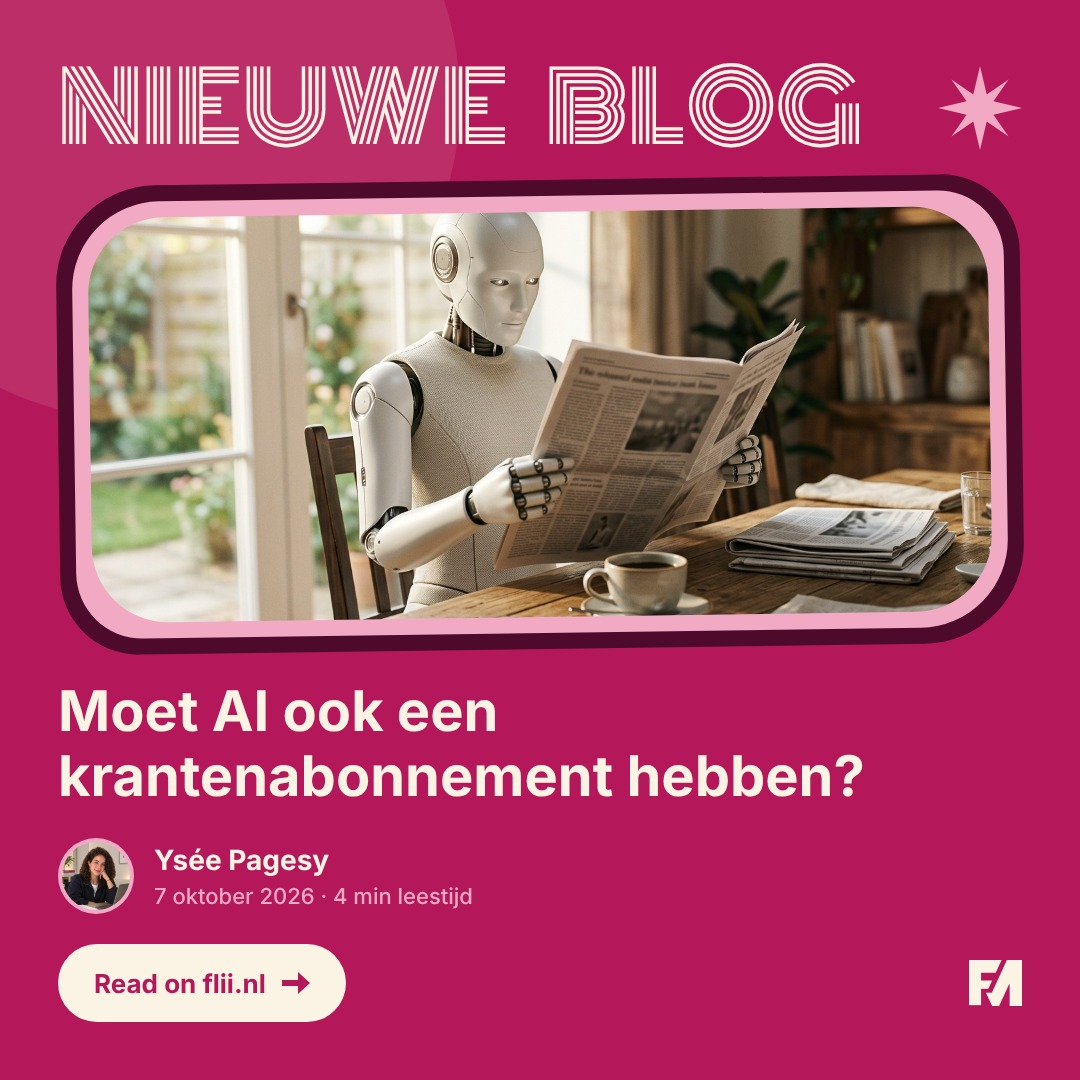
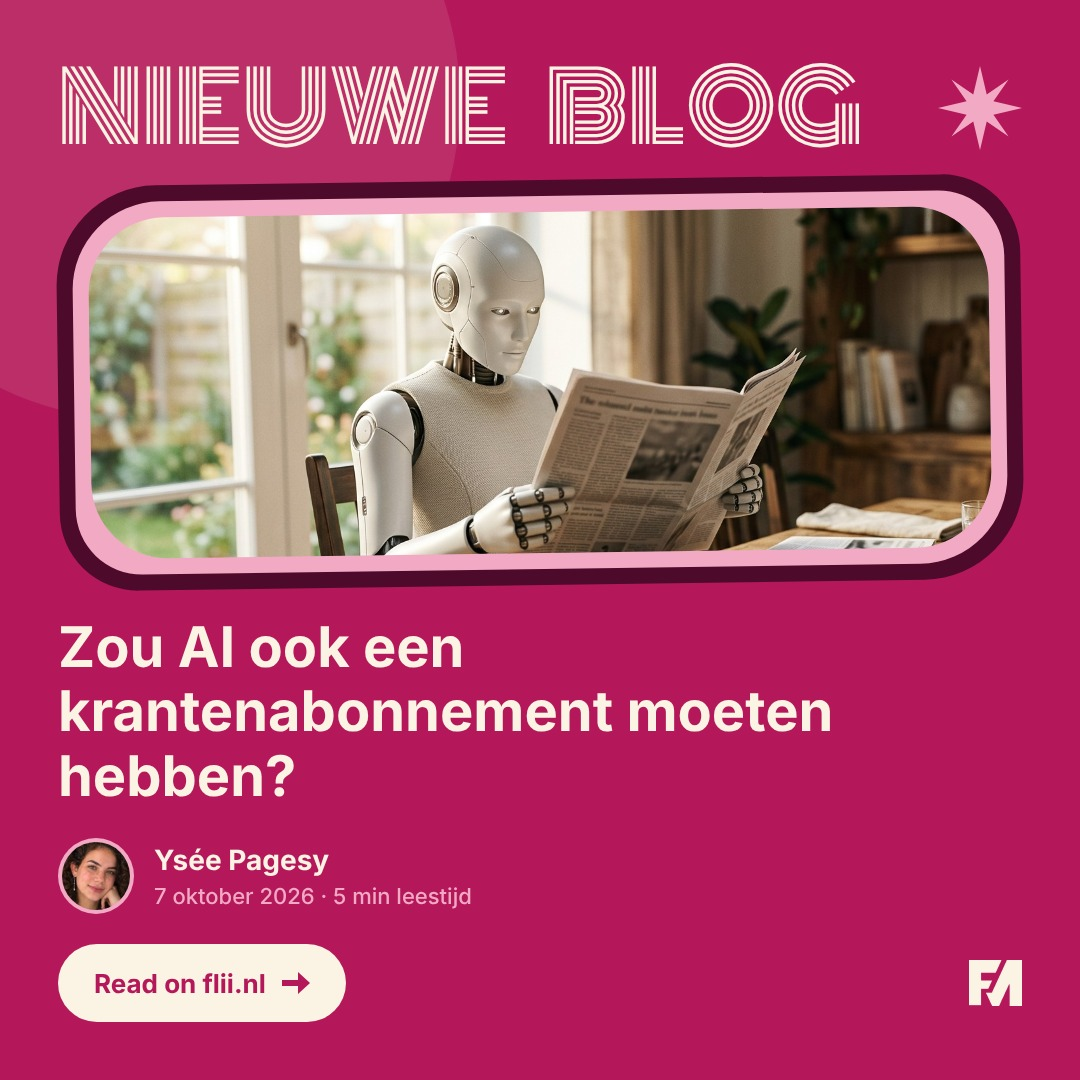
7 okt: artikel van Ysée Pagesy, nieuwe titel en leestijd
Claude-Session: https://claude.ai/code/session_01BdrNn45ppSGb9d5L34N1QB

Changed region(s): [[0.0306, 0.1833, 0.9472, 0.8556], [0.3056, 0.825, 0.4278, 0.8556]]

diff --git a/insight/ai-nieuwscrawlers-en-je-merk.html b/insight/ai-nieuwscrawlers-en-je-merk.html
@@ -4,10 +4,10 @@
 <meta charset="UTF-8">
 <meta http-equiv="Cache-Control" content="max-age=300, must-revalidate">
 <meta name="viewport" content="width=device-width,initial-scale=1">
-<title>Moet AI ook een krantenabonnement hebben? | Flii Media</title>
+<title>Zou AI ook een krantenabonnement moeten hebben? | Flii Media</title>
 <meta property="og:type" content="article">
-<meta property="og:title" content="Moet AI ook een krantenabonnement hebben?">
-<meta property="og:description" content="ChatGPT vertelt dagelijks wat er over jouw merk in het nieuws staat. Maar welke bronnen leest het eigenlijk, en betaalt het daarvoor?">
+<meta property="og:title" content="Zou AI ook een krantenabonnement moeten hebben?">
+<meta property="og:description" content="AI haalt nieuws op via crawlers, vaak zonder dat de lezer de krant nog bezoekt. Zou AI dan een abonnement moeten hebben op de kranten waar het zijn informatie vandaan haalt?">
 <meta property="og:url" content="https://flii.nl/insight/ai-nieuwscrawlers-en-je-merk">
 <meta property="og:site_name" content="Flii Media">
 <meta name="twitter:card" content="summary_large_image">
@@ -17,7 +17,7 @@
 <meta property="og:locale" content="nl_NL">
 <meta name="twitter:image" content="https://flii.nl/assets/og/insight-ai-nieuwscrawlers-en-je-merk.jpg">
 
-<meta name="description" content="ChatGPT vertelt dagelijks wat er over jouw merk in het nieuws staat. Maar welke bronnen leest het eigenlijk, en betaalt het daarvoor?">
+<meta name="description" content="AI haalt nieuws op via crawlers, vaak zonder dat de lezer de krant nog bezoekt. Zou AI dan een abonnement moeten hebben op de kranten waar het zijn informatie vandaan haalt?">
 <style>
 @font-face{font-family:'Bricolage Grotesque';src:url('/assets/fonts/BricolageGrotesque.woff2') format('woff2-variations');
   font-weight:200 800;font-display:swap;}
@@ -209,7 +209,7 @@ body > picture{box-sizing:border-box;}
     {
       "@type": "ListItem",
       "position": 3,
-      "name": "Moet AI ook een krantenabonnement hebben?",
+      "name": "Zou AI ook een krantenabonnement moeten hebben?",
       "item": "https://flii.nl/insight/ai-nieuwscrawlers-en-je-merk"
     }
   ]
@@ -233,38 +233,53 @@ body > picture{box-sizing:border-box;}
   <div class="article-meta">
     <span class="article-tag">Blog</span>
     <span class="article-date-lbl">7 oktober 2026</span>
-    <span class="article-author">Sten Bossong</span>
+    <span class="article-author">Ysée Pagesy</span>
   </div>
-  <h1>Moet AI ook een krantenabonnement hebben?</h1>
-  <p class="lead">Hoe AI-nieuwscrawlers bepalen wat er over je merk verschijnt</p>
+  <h1>Zou AI ook een krantenabonnement moeten hebben?</h1>
   <span class="article-chip article-chip--prompted">prompted</span>
 </div>
-<img decoding="async" fetchpriority="high" src="/assets/insight/ai-nieuwscrawlers-en-je-merk.webp" alt="Moet AI ook een krantenabonnement hebben?" class="hero-img" loading="eager">
+<img decoding="async" fetchpriority="high" src="/assets/insight/ai-nieuwscrawlers-en-je-merk.webp" alt="Zou AI ook een krantenabonnement moeten hebben?" class="hero-img" loading="eager">
 <div class="section-body">
-<p>Vraag ChatGPT, Perplexity of Google wat er speelt rond jouw merk, en je krijgt een keurige samenvatting. Maar waar komt die vandaan? Achter elk AI-antwoord zit een crawler die het web afstruint. En een groeiend deel van het nieuws zit achter een deur die voor die crawlers dicht blijft.</p>
-<p>Dat klinkt als een probleem van uitgevers. Maar het raakt elk merk dat in het nieuws komt, of daar juist in wil komen.</p>
-<p>Let's dive in.</p>
-
-<h2>Wat doet een AI-nieuwscrawler?</h2>
-<p>Crawlers zijn bots die websites lezen. Zoekmachines doen dat al decennia om pagina's te indexeren. AI-bedrijven gebruiken ze voor twee dingen: om hun modellen te trainen, en om actuele antwoorden te geven. Dat laatste gebeurt live. Vraag je iets over gisteren, dan haalt de AI het op bij bronnen die hij mag lezen.</p>
-<p>Uitgevers maken daar steeds bewuster onderscheid in. Uit een analyse van FT Strategies onder 70 grote nieuwsuitgevers (juli 2026) blijkt dat 60 van hen minstens één AI-crawler weren. Het patroon: zoekcrawlers zijn welkom, trainingscrawlers niet, en crawlers die AI-antwoorden voeden krijgen per geval toegang.</p>
-
-<h2>Toegang is een verdienmodel geworden</h2>
-<p>Dat selectieve open- en dichtdoen is geen toeval. Het is onderhandelingsruimte. OpenAI sloot licentiedeals met onder meer Axel Springer, de Financial Times en News Corp. The New York Times stapte juist naar de rechter. Halverwege 2026 telde de teller al zo'n 48 AI-licentiedeals waarin nieuws een rol speelt.</p>
-<p>Ook de infrastructuur van het web schuift mee. Cloudflare, dat een groot deel van alle websites bedient, kondigde aan trainings- en agent-crawlers standaard te blokkeren op pagina's met advertenties. Zoekcrawlers blijven welkom. Uitgevers kunnen bovendien een prijs per crawl rekenen.</p>
-<p>Kortom: AI heeft inmiddels letterlijk een krantenabonnement nodig. En niet elke AI heeft hetzelfde abonnement.</p>
-
-<h2>Wat betekent dit voor jouw merk?</h2>
-<p>Een AI-assistent kan alleen navertellen wat hij mag lezen. Staat jouw beste interview in een medium dat crawlers weert, dan bestaat het voor dat model niet. Een kritisch stuk in een open bron telt daarentegen volledig mee.</p>
+<p><strong>Zou AI ook een krantenabonnement moeten hebben?</strong></p>
+<p>Als we informatie willen krijgen, maken we gebruik van verschillende bronnen, zoals sociale media, kranten en televisiezenders. Veel van deze bronnen zijn afhankelijk van abonnementen, advertenties of andere vormen van inkomsten om het hoofd boven water te houden. Maar tegenwoordig zijn dit niet meer de enige manieren om informatie te verkrijgen. AI kan nu informatie van het internet verzamelen en verwerken met behulp van crawlers. Gebruikers zijn daardoor misschien minder snel bereid om voor een abonnement te betalen. Zou AI dan een abonnement moeten hebben op de kranten waar het zijn informatie vandaan haalt?</p>
+<p><strong>Wat is een AI-crawler?</strong></p>
+<p>Voordat we de link tussen AI en mediaplatforms proberen te begrijpen, moeten we eerst kijken naar wat een “AI-crawler” precies is. Traditionele crawlerbots verzamelen informatie van het internet en slaan deze op in databases en indexen, zodat zoekmachines websites, artikelen of afbeeldingen makkelijker kunnen vinden. AI-crawlers verzamelen ook online content, maar kunnen deze voor verschillende doeleinden gebruiken: sommige verzamelen informatie om Large Language Models (LLM’s) te trainen, terwijl andere informatie ophalen en bronnen citeren bij het beantwoorden van vragen van gebruikers. Simpel gezegd helpen traditionele crawlers mensen vooral om content te vinden, terwijl AI-crawlers AI-systemen kunnen helpen om content te begrijpen, verwerken of genereren.</p>
+<p>Het onderscheid is niet altijd zo duidelijk, omdat sommige crawlers meerdere doelen tegelijk kunnen dienen. Toch verandert hun opkomst de manier waarop mensen toegang krijgen tot informatie. In plaats van rechtstreeks naar een website te gaan om een artikel te lezen, kunnen gebruikers AI simpelweg vragen om het nieuws samen te vatten. Misschien bezoeken ze daarna het originele artikel, maar misschien ook niet. Uiteindelijk kunnen ze veel van de waarde van een artikel ontvangen zonder het daadwerkelijk te lezen.</p>
+<p><strong>Hoe gingen uitgevers om met AI-crawlers?</strong></p>
+<p>Uitgevers kunnen een specifiek bestand gebruiken dat “robots.txt” heet. Hiermee kunnen ze aangeven welke delen van een website crawlers wel of niet mogen bezoeken. Hoewel crawlers deze instructies meestal respecteren, is robots.txt geen absolute bescherming: het is eerder een verzoek dan een technische barrière, en sommige crawlers kunnen ervoor kiezen om het te negeren.</p>
+<p>Maar het blokkeren van AI-crawlers brengt een lastige afweging met zich mee. Als een AI-tool een artikel van een uitgever niet kan ophalen, kan het mogelijk ook de originele bron niet tonen of citeren in zijn antwoord. De uitgever beschermt daarmee zijn content, maar kan tegelijkertijd zichtbaarheid en potentiële lezers verliezen.</p>
+<p>En dit is niet helemaal nieuw voor kranten. Ze hebben hun verdienmodel al meerdere keren moeten aanpassen: van het verkopen van een papieren krant, naar het aanbieden van nieuws online, en vervolgens het toevoegen van extra onderdelen zoals denkspellen, cartoons, recepten en video’s. Tegenwoordig combineren veel uitgevers deze verschillende producten in één abonnement, om lezers meer waarde te bieden dan alleen het nieuws.</p>
+<p><strong>Welke nieuwe oplossingen proberen uitgevers in te voeren?</strong></p>
+<p>Om concurrerend te blijven met AI-platforms zijn uitgevers begonnen met het ontwikkelen van andere manieren om inkomsten te genereren.</p>
 <ul>
-<li><strong>Je PR-mix bepaalt je AI-beeld.</strong> Waar je verschijnt, is minstens zo belangrijk als hoe vaak. Publicaties in bronnen die AI-crawlers toelaten komen terug in antwoorden, publicaties achter een gesloten deur niet.</li>
-<li><strong>Je eigen site is je betrouwbaarste bron.</strong> Op je eigen website vertel je het verhaal zelf. Check je robots.txt: blokkeer je per ongeluk de bots die AI-antwoorden voeden?</li>
-<li><strong>Meten gaat anders.</strong> Vraag regelmatig aan ChatGPT, Perplexity en Gemini wat ze over je merk weten, en noteer welke bronnen ze noemen. Dat is je nieuwe share of voice.</li>
+<li><p><strong>Pay-per-crawl</strong></p></li>
 </ul>
+<p>Pay-per-crawl is een nieuw systeem dat nog volop in ontwikkeling is. Het stelt website-eigenaren in staat om een prijs vast te stellen voor toegang door bepaalde AI-crawlers. Journalistieke content wordt daarmee meer behandeld als een gelicentieerde bron.</p>
+<ul>
+<li><p><strong>Pay-per-use</strong></p></li>
+</ul>
+<p>Pay-per-use is een model waarbij uitgevers worden betaald wanneer hun content daadwerkelijk bijdraagt aan een AI-product. Het verschil is eenvoudig: bij pay-per-crawl betaal je voor toegang, terwijl je bij pay-per-use betaalt voor daadwerkelijk gebruik. Wanneer een gebruiker een AI-model bijvoorbeeld om nieuws vraagt, krijgt de uitgever betaald voor de content die in het antwoord wordt gebruikt.</p>
+<ul>
+<li><p><strong>Licentieovereenkomsten</strong></p></li>
+</ul>
+<p>In plaats van juridische stappen te ondernemen, kiezen sommige uitgevers ervoor om overeenkomsten te sluiten met AI-bedrijven over het gebruik van hun content. Bedrijven zoals Associated Press, Axel Springer, Prisa Media en Le Monde hebben al dergelijke overeenkomsten gesloten met AI-bedrijven.</p>
+<p>Deze oplossing is echter veel makkelijker voor grote mediabedrijven dan voor kleine kranten. Kleinere uitgevers kunnen er daarom voor kiezen om zich gezamenlijk te organiseren om licenties te onderhandelen.</p>
+<ul>
+<li><p><strong>Collectieve licenties / collectief beheer</strong></p></li>
+</ul>
+<p>Deze oplossing kan vooral interessant zijn voor kleinere uitgevers. In plaats van individueel te moeten onderhandelen met OpenAI, Google of Anthropic, kunnen ze een collectieve organisatie vormen die licenties beheert en inkomsten onder de deelnemers verdeelt. Deze aanpak is nog volop in ontwikkeling, maar is gebaseerd op het principe van collectief beheer dat al in de muziekindustrie wordt gebruikt.</p>
+<ul>
+<li><p><strong>Bundelabonnementen</strong></p></li>
+</ul>
+<p>Een andere manier waarop uitgevers reageren, is door hun abonnementen aantrekkelijker te maken. Nu mensen steeds vaker informatie via sociale media en AI krijgen, bezoeken minder mensen rechtstreeks nieuwswebsites. Volgens het Reuters Institute maakt dit het moeilijker voor uitgevers om nieuwe bezoekers om te zetten in abonnees.</p>
+<p>Als AI je gratis kan vertellen wat er vandaag is gebeurd, wordt algemeen nieuws minder waardevol. Uitgevers moeten daarom dingen aanbieden die gebruikers niet makkelijk ergens anders kunnen vinden, zoals exclusieve onderzoeken, lokale journalistiek, podcasts, games of evenementen.</p>
+<p>The New York Times is een voorbeeld van deze ontwikkeling. In 2025 betaalde slechts 12% van de abonnees uitsluitend voor nieuws, tegenover 17% het jaar ervoor. De meeste abonnees kiezen nu voor een bundel met onder andere games en koken.</p>
+<p><strong>Dus, zou AI een abonnement op kranten moeten hebben?</strong></p>
+<p>Misschien niet in de traditionele vorm. Maar als AI-bedrijven journalistiek gebruiken om hun producten aan te bieden, zouden ze ervoor moeten betalen.</p>
+<p>AI wordt een nieuwe manier waarop mensen toegang krijgen tot nieuws, vaak zonder de oorspronkelijke krant of website te bezoeken. Als een AI een artikel kan gebruiken om de vraag van een gebruiker te beantwoorden, terwijl die gebruiker nooit op de website van de uitgever komt of een abonnement afsluit, loopt de uitgever het risico inkomsten te verliezen die nodig zijn om die journalistiek te produceren.</p>
+<p>Dit betekent niet per se dat AI-bedrijven een traditioneel abonnement bij iedere krant moeten afsluiten. Pay-per-crawl, pay-per-use, licentieovereenkomsten en collectieve licenties kunnen allemaal verschillende manieren bieden om uitgevers te compenseren. Het belangrijkste is dat de waarde niet slechts één kant op gaat: als AI-bedrijven profiteren van journalistiek, zouden uitgevers daar ook van moeten profiteren.</p>
+<p>AI verandert de manier waarop we nieuws consumeren, dus uitgevers zullen zich moeten blijven aanpassen. Maar aanpassen werkt alleen als er een duurzame manier blijft bestaan om de journalistiek achter de informatie die AI aanbiedt te financieren.</p>
 
-<h2>Conclusie</h2>
-<p>Of AI een krantenabonnement moet hebben, wordt nu in contracten en rechtszalen beslist. Voor merken is de praktische vraag een andere: in welke kranten leest de AI mee? Wie dat weet, kan sturen op wat er over zijn merk verschijnt.</p>
-<p>Benieuwd wat AI vandaag over jouw merk vertelt? Plan een gesprek met ons team, dan zoeken we het samen uit.</p>
 </div>
 
 <footer class="footer">

diff --git a/insight.html b/insight.html
@@ -435,7 +435,7 @@ nav.nav{background:#fff !important;color:#0F0E0C !important;max-width:none !impo
     <a class="ov-art" href="insight/google-io-2026-wat-marketeers-moeten-weten"><img src="/assets/insight/google-io-2026-wat-marketeers-moeten-weten.webp" alt="" loading="lazy"><span class="ov-art-b"><span class="ov-art-n">Google I/O 2026: wat marketeers moeten weten</span><span class="ov-art-d">Elke maand gebruiken 2,5 miljard mensen AI Overviews in Google, en AI Mode haalde binnen een jaar 1 miljard gebruikers. Wat…</span></span></a>
     <a class="ov-art" href="insight/terug-naar-de-basis"><img src="/assets/insight/terug-naar-de-basis.webp" alt="" loading="lazy"><span class="ov-art-b"><span class="ov-art-n">Terug naar de basis</span><span class="ov-art-d">Een cadeautje van de meiden. Om slechte klanten af te schrikken.</span></span></a>
     <a class="ov-art" href="insight/social-media-onderzoek-2026-newcom"><img src="/assets/insight/social-media-onderzoek-2026-newcom.webp" alt="" loading="lazy"><span class="ov-art-b"><span class="ov-art-n">Meer gebruikers, meer twijfel: social media in 2026</span><span class="ov-art-d">14,6 miljoen Nederlanders gebruiken social media, gemiddeld twee uur per dag. Tegelijk wil 5,5 miljoen er minder tijd aan…</span></span></a>
-    <a class="ov-art" href="insight/ai-nieuwscrawlers-en-je-merk"><img src="/assets/insight/ai-nieuwscrawlers-en-je-merk.webp" alt="" loading="lazy"><span class="ov-art-b"><span class="ov-art-n">Moet AI ook een krantenabonnement hebben?</span><span class="ov-art-d">ChatGPT vertelt dagelijks wat er over jouw merk in het nieuws staat. Maar welke bronnen leest het eigenlijk, en betaalt het…</span></span></a>
+    <a class="ov-art" href="insight/ai-nieuwscrawlers-en-je-merk"><img src="/assets/insight/ai-nieuwscrawlers-en-je-merk.webp" alt="" loading="lazy"><span class="ov-art-b"><span class="ov-art-n">Zou AI ook een krantenabonnement moeten hebben?</span><span class="ov-art-d">AI haalt nieuws op via crawlers, vaak zonder dat de lezer de krant nog bezoekt. Zou AI dan een abonnement moeten hebben op…</span></span></a>
     <a class="ov-art" href="insight/ai-video-in-drie-fasen-personage-beeld-beweging"><img src="/assets/insight/ai-video-in-drie-fasen-personage-beeld-beweging.webp" alt="" loading="lazy"><span class="ov-art-b"><span class="ov-art-n">Van gezicht naar film: AI-video in drie fasen</span><span class="ov-art-d">De meeste mensen gebruiken AI-video in de verkeerde volgorde. Bouw eerst het personage, dan de beelden, dan de beweging — de…</span></span></a>
     <a class="ov-art" href="insight/ai-architectuur-voor-ieder-bedrijf-nodig"><img src="/assets/insight/ai-architectuur-voor-ieder-bedrijf-nodig.webp" alt="" loading="lazy"><span class="ov-art-b"><span class="ov-art-n">AI architectuur: voor ieder bedrijf een must?</span><span class="ov-art-d">Waarom losse AI-tools uitgroeien tot chaos, en wat een AI-architectuur oplost. Over data, processen en het verschil tussen…</span></span></a>
     <a class="ov-art" href="insight/branding-versus-performance-marketing"><img src="/assets/insight/branding-versus-performance-marketing.webp" alt="" loading="lazy"><span class="ov-art-b"><span class="ov-art-n">Branding vs. Performance: wat werkt?</span><span class="ov-art-d">Merkbouw of direct resultaat? Waarom de vraag verkeerd gesteld is, wat onderzoek zegt over de 60/40-verdeling en hoe je de balans…</span></span></a>

diff --git a/insight/index.html b/insight/index.html
@@ -450,7 +450,7 @@ body > picture{box-sizing:border-box;}
     <a class="ov-art" href="google-io-2026-wat-marketeers-moeten-weten"><img src="/assets/insight/google-io-2026-wat-marketeers-moeten-weten.webp" alt="" loading="lazy"><span class="ov-art-b"><span class="ov-art-n">Google I/O 2026: wat marketeers moeten weten</span><span class="ov-art-d">Elke maand gebruiken 2,5 miljard mensen AI Overviews in Google, en AI Mode haalde binnen een jaar 1 miljard gebruikers. Wat…</span></span></a>
     <a class="ov-art" href="terug-naar-de-basis"><img src="/assets/insight/terug-naar-de-basis.webp" alt="" loading="lazy"><span class="ov-art-b"><span class="ov-art-n">Terug naar de basis</span><span class="ov-art-d">Een cadeautje van de meiden. Om slechte klanten af te schrikken.</span></span></a>
     <a class="ov-art" href="social-media-onderzoek-2026-newcom"><img src="/assets/insight/social-media-onderzoek-2026-newcom.webp" alt="" loading="lazy"><span class="ov-art-b"><span class="ov-art-n">Meer gebruikers, meer twijfel: social media in 2026</span><span class="ov-art-d">14,6 miljoen Nederlanders gebruiken social media, gemiddeld twee uur per dag. Tegelijk wil 5,5 miljoen er minder tijd aan…</span></span></a>
-    <a class="ov-art" href="ai-nieuwscrawlers-en-je-merk"><img src="/assets/insight/ai-nieuwscrawlers-en-je-merk.webp" alt="" loading="lazy"><span class="ov-art-b"><span class="ov-art-n">Moet AI ook een krantenabonnement hebben?</span><span class="ov-art-d">ChatGPT vertelt dagelijks wat er over jouw merk in het nieuws staat. Maar welke bronnen leest het eigenlijk, en betaalt het…</span></span></a>
+    <a class="ov-art" href="ai-nieuwscrawlers-en-je-merk"><img src="/assets/insight/ai-nieuwscrawlers-en-je-merk.webp" alt="" loading="lazy"><span class="ov-art-b"><span class="ov-art-n">Zou AI ook een krantenabonnement moeten hebben?</span><span class="ov-art-d">AI haalt nieuws op via crawlers, vaak zonder dat de lezer de krant nog bezoekt. Zou AI dan een abonnement moeten hebben op…</span></span></a>
     <a class="ov-art" href="ai-video-in-drie-fasen-personage-beeld-beweging"><img src="/assets/insight/ai-video-in-drie-fasen-personage-beeld-beweging.webp" alt="" loading="lazy"><span class="ov-art-b"><span class="ov-art-n">Van gezicht naar film: AI-video in drie fasen</span><span class="ov-art-d">De meeste mensen gebruiken AI-video in de verkeerde volgorde. Bouw eerst het personage, dan de beelden, dan de beweging — de…</span></span></a>
     <a class="ov-art" href="../insight/ai-architectuur-voor-ieder-bedrijf-nodig"><img src="/assets/insight/ai-architectuur-voor-ieder-bedrijf-nodig.webp" alt="" loading="lazy"><span class="ov-art-b"><span class="ov-art-n">AI architectuur: voor ieder bedrijf een must?</span><span class="ov-art-d">Waarom losse AI-tools uitgroeien tot chaos, en wat een AI-architectuur oplost. Over data, processen en het verschil tussen…</span></span></a>
     <a class="ov-art" href="../insight/branding-versus-performance-marketing"><img src="/assets/insight/branding-versus-performance-marketing.webp" alt="" loading="lazy"><span class="ov-art-b"><span class="ov-art-n">Branding vs. Performance: wat werkt?</span><span class="ov-art-d">Merkbouw of direct resultaat? Waarom de vraag verkeerd gesteld is, wat onderzoek zegt over de 60/40-verdeling en hoe je de balans…</span></span></a>

diff --git a/index.html b/index.html
@@ -3478,10 +3478,10 @@ height="0" width="0" style="display:none;visibility:hidden"></iframe></noscript>
 
 <a href="insight/ai-nieuwscrawlers-en-je-merk" class="article">
       <div class="article-img">
-        <img src="/assets/insight/ai-nieuwscrawlers-en-je-merk.webp" alt="Moet AI ook een krantenabonnement hebben?" style="width:100%;height:200px;object-fit:cover;display:block;flex-shrink:0;" loading="lazy">
+        <img src="/assets/insight/ai-nieuwscrawlers-en-je-merk.webp" alt="Zou AI ook een krantenabonnement moeten hebben?" style="width:100%;height:200px;object-fit:cover;display:block;flex-shrink:0;" loading="lazy">
       </div>
       <div class="article-body"><div class="article-date">7 oktober 2026</div>
-      <div class="article-title">Moet AI ook een krantenabonnement hebben?</div>
+      <div class="article-title">Zou AI ook een krantenabonnement moeten hebben?</div>
       <div class="article-chip article-chip--prompted">prompted</div></div>
     </a>
 
